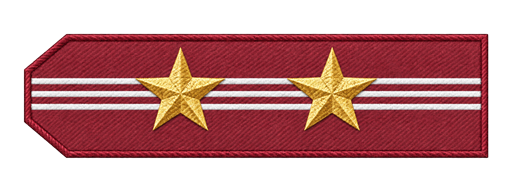
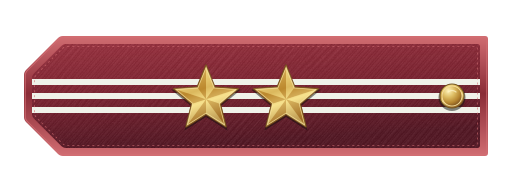
feat(uniform): refine shoulder-board sprite consistency

diff --git a/src/features/profile/uniform/uniformArtCatalog.ts b/src/features/profile/uniform/uniformArtCatalog.ts
@@ -26,7 +26,7 @@ function describeShoulder(mark: typeof GROUPS[number]["mark"], count: number, st
   if (mark === "none") return "nền trắng bạc, không ký hiệu";
   if (mark === "bar") return `${count} vạch vàng dọc gần đầu ngoài`;
   if (mark === "chevron") return `${count} vạch chữ V vàng hướng vào trong`;
-  if (mark === "supreme") return "một sao vàng lớn gấp 1,5 lần, nền đỏ cam viền vàng";
+  if (mark === "supreme") return "một sao vàng dập nổi cao cấp, nền đỏ cam viền vàng kép dày";
   return `${count} sao vàng${stripes ? ` chèn trên ${stripes} vạch trắng ngang` : ", nền đen viền vàng"}`;
 }
 
@@ -38,7 +38,7 @@ export const UNIFORM_ART_CATALOG = Object.fromEntries(
       groupLabel: group.label,
       uniformSrc: `/assets/uniforms/uniforms/${familyId}.png`,
       shoulderSrc: `/assets/uniforms/shoulder-boards/${familyId}.png`,
-      shoulderDescription: describeShoulder(group.mark, index + 1, group.stripes),
+      shoulderDescription: `${describeShoulder(group.mark, index + 1, group.stripes)}, có nút đính`,
       glow: group.glow,
     },
   ])),

diff --git a/scripts/uniforms/check-assets.ts b/scripts/uniforms/check-assets.ts
@@ -9,6 +9,15 @@ const familyIds = RANK_FAMILIES.map((family) => family.id).sort();
 assert.equal(familyIds.length, 24);
 assert.deepEqual(Object.keys(UNIFORM_ART_CATALOG).sort(), familyIds);
 
+// Static authoring inventory: the export spec must keep the runtime rank mapping.
+const boardSpec = JSON.parse(readFileSync(resolve("scripts/uniforms/shoulder-board-spec.json"), "utf8"));
+const boardIds = boardSpec.groups.flatMap((group: { ids: string[] }) => group.ids);
+assert.deepEqual(boardIds.sort(), familyIds);
+assert.deepEqual(boardSpec.geometry.canvas, { width: 512, height: 192 });
+assert.equal(boardSpec.geometry.body.border, boardSpec.geometry.body.previousSupremeBorder);
+assert.deepEqual(boardSpec.groups.find((group: { id: string }) => group.id === "endgame").ids,
+  ["endgame_1", "endgame_grand_marshal", "endgame_2", "endgame_3"]);
+
 for (const [directory, srcKey, width, height] of [
   ["uniforms", "uniformSrc", 840, 1120],
   ["shoulder-boards", "shoulderSrc", 512, 192],

diff --git a/art/uniforms/README.md b/art/uniforms/README.md
@@ -1,0 +1,17 @@
+# Shoulder-board material and export
+
+`shoulder-twill.png` is an original cloth material generated with the built-in ImageGen tool. The final prompt is recorded in `scripts/uniforms/imagegen-prompts.json` under `shoulderBoardMaterial`. No garment sprite is regenerated by this workflow.
+
+The 24 production PNGs are exported from this shared material and `scripts/uniforms/shoulder-board-spec.json`. All coordinates are in a 512 × 192 canvas: body bounds (24, 36)–(488, 156), clipped outer end on the left, gold attachment button at (452, 96), radius 12. The current React mirror places that button toward the collar on both shoulders.
+
+All regular stars share radius 34, inner ratio 0.44, 80 px center spacing and the same metal/facets. Their visible bounds are centered vertically. White stripes are 6 px thick with 14 px center spacing, clipped continuously to the cloth beneath the stars and button. Bars and chevrons use fixed geometry and spacing from the spec.
+
+The base border is 8 px. Tổng Tư Lệnh uses 16 px (twice the previous approximately 8 px gold edge), an inset engraved line and one radius-42 star with brighter raised ridges. Both star sizes fit inside their borders; the central insignia field is centered at x=246, leaving room for the attachment button.
+
+Re-export with Node.js and authoring dependency Sharp 0.35.4 (also used for rank badges):
+
+```sh
+NODE_PATH=/path/to/node_modules node scripts/uniforms/render-shoulder-boards.cjs
+```
+
+On PowerShell, set `NODE_PATH` to the Sharp package directory's parent and run `scripts/uniforms/export-sprites.ps1 -ShoulderBoardsOnly`. `-OutputRoot` remains supported. The manifest exporter now routes board entries through this same exporter, so independent image generations cannot introduce inconsistent symbol sizes. Generated PNGs retain RGBA transparency and existing filenames. SVG markup exists only inside the offline authoring script; the game consumes PNGs.
